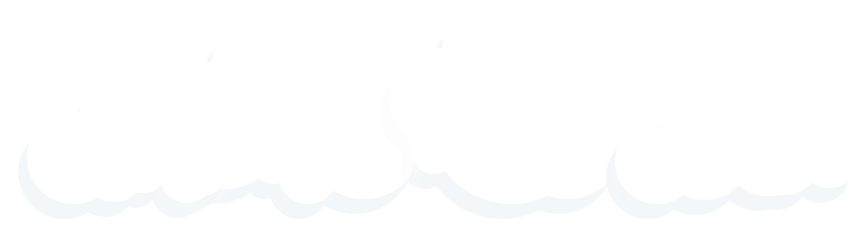
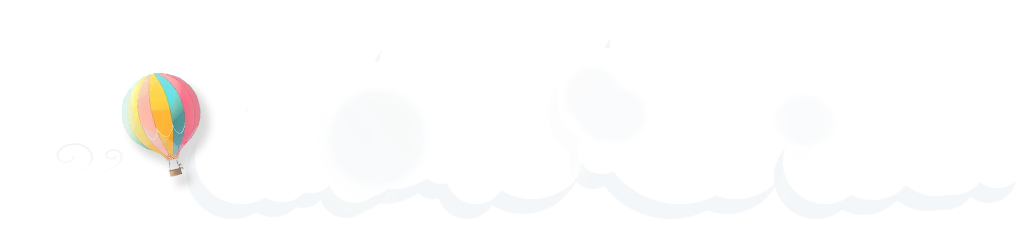
ordstriden uppdatering med karaktärer plus andra stiländringar

Changed region(s): [[0.0934, 0.2954, 0.218, 0.7679]]

diff --git a/src/views/Ordstriden.vue b/src/views/Ordstriden.vue
@@ -11,15 +11,26 @@
         <p class="styled">Lurifax<br>HP: {{ opponentHP }}</p>
       </div>
     </div>
+    <div class="character-container">
+      <div class="image-container hero-container">
+        <img src="/p-f2.png" alt="hjälte1" class="hero-img" />
+        <div class="shadow"></div> <!-- Skugga under hjältebilden -->
+      </div>
+      <div class="image-container monster-container">
+        <img src="/p-k2.png" alt="monster" class="monster-img" />
+        <div class="shadow"></div> <!-- Skugga under monsterbilden -->
+      </div>
+    </div>
+
+
+
+
     <!-- Om spelet inte är över visas innehållet -->
+    <div id="input-container">
     <div v-if="!gameOver">
       <p>Gissa ordet: <strong>{{ scrambledWord }}</strong></p>
       <!-- Inmatningsfält för svar, binder svaret till userAnswer, @keyup.enter anropar funktionen onEnterPress -->
-      <input
-        v-model="userAnswer"
-        @keyup.enter="onEnterPress"
-        placeholder="Skriv ditt svar här..."
-      />
+        <input v-model="userAnswer" @keyup.enter="onEnterPress" placeholder="Skriv ditt svar här..." />
       <!-- Knappar för att ge upp/skicka svar visas om feedback inte syns -->
       <button v-if="!feedback" @click="surrenderRound">Ge upp</button>
       <button v-if="!feedback" @click="submitAnswer">Attack!</button>
@@ -39,6 +50,7 @@
       <p v-else>👑 Du vann!<br>🥳 Den onda trollen Lurifax är besegrad!</p>
       <button @click="restartGame">Spela igen!</button>
     </div>
+  </div>
   </div>
 </template>
 
@@ -215,10 +227,14 @@ newRound();
 </script>
 
 <style scoped>
+h2 {
+  text-align: center;
+  margin-bottom: -10px;
+}
+
 .ordstriden-container {
   max-width: 100%;
   margin: 0 auto;
-  padding: 20px;
   text-align: center;
 }
 
@@ -243,16 +259,67 @@ p {
   display: flex;
   justify-content: space-around;
   margin: 5px;
+  padding-bottom: 30px;
+  gap: 170px;
 }
 
 .player-health-status .player,
 .player-health-status .opponent {
-  padding: 10px;
+  padding: -41px;
   border-radius: 10px;
   width: 40%;
   font-family: 'Bangers', sans-serif;
   font-size: 1.2em;
 }
+
+.player-health-status p {
+  line-height: 1.2;
+}
+
+.character-container {
+  position: relative;
+  width: 100%;
+}
+
+.image-container {
+  position: absolute;
+  /* Se till att varje container kan hantera skuggan */
+}
+
+.hero-img {
+  width: 180px;
+  height: auto;
+  position: relative;
+  margin-left: -30px;
+  margin-top: -50px;
+}
+
+.monster-img {
+  width: 165px;
+  height: auto;
+  position: relative;
+  margin-left: 220px;
+  margin-top: -80px;
+}
+
+/* Skuggan ska följa varje bild utan att flytta något annat */
+.shadow {
+  position: absolute;
+  width: 100px;
+  /* Justera storleken så den matchar bilden */
+  height: 15px;
+  background: rgba(0, 0, 0, 0.3);
+  border-radius: 50%;
+  bottom: -8px;
+  /* Flytta skuggan lite längre ner */
+  left: 102%;
+  transform: translateX(-140%);
+  /* Ser till att skuggan ligger centrerad */
+  filter: blur(10px);
+  z-index: -1;
+  /* Lägger skuggan bakom bilden */
+}
+
 
 input {
   width: 80%;
@@ -264,6 +331,10 @@ input {
   font-size: 1.1rem;
   background-color: #fff;
   border-radius: 5px;
+}
+
+#input-container {
+  padding-top: 160px;
 }
 
 button {

diff --git a/src/views/Quiz.vue b/src/views/Quiz.vue
@@ -8,7 +8,7 @@
       <p class="styled">Poäng: <strong>{{ score }}</strong></p>
       <p>
         Vad är det engelska ordet för:
-        <strong>{{ questions[currentIndex].svenska }}</strong>
+        <strong class="textHighlight">{{ questions[currentIndex].svenska }}</strong>
       </p>
       <!-- Inmatningsfält för svar, binder svaret till userAnswer, @keyup.enter anropar funktionen onEnterPress -->
       <input v-model="userAnswer" type="text" placeholder="Skriv översättningen..." @keyup.enter="onEnterPress" />
@@ -301,6 +301,15 @@ p {
     -1px 1px 0 #111,
     1px 1px 0 #111;
   letter-spacing: 0.15em;
+}
+
+.textHighlight {
+  color: #f77f00;
+  text-shadow:
+    -1px -1px 0 #111,
+    1px -1px 0 #111,
+    -1px 1px 0 #111,
+    1px 1px 0 #111;
 }
 
 input {

diff --git a/src/App.vue b/src/App.vue
@@ -115,12 +115,10 @@ body {
   font-family: "Arial", "Helvetica", "sans-serif";
   font-size: 1.05rem;
   color: #111;
-  background: linear-gradient(
-    to bottom,
+  background: linear-gradient(to bottom,
     lightblue 0%,
     lightblue 66%,
-    #FFF8E1 100%
-  );
+      #FFF8E1 100%);
   background-repeat: no-repeat;
   background-attachment: fixed;
 }
@@ -195,12 +193,17 @@ body {
 
 h2 {
   padding: 5px;
-  color: #111;
+  color: #FFF8E1;
   font-family: 'Baloo';
   font-size: 1.8rem;
   font-style: italic;
   text-align: center;
   letter-spacing: 0.3em;
+  text-shadow:
+    3px 3px 1px #111,
+    -1px 1px 1px #111,
+    1px -1px 1px #111,
+    -1px -1px 1px #111;
 }
 
 p {

diff --git a/src/components/Header.vue b/src/components/Header.vue
@@ -81,12 +81,14 @@ textPath {
 #cloud {
   display: flex;
   justify-content: center;
+  position: relative;
 }
 
 #cloud img {
   position: absolute;
-  width: 867px;
-  top: -0px;
+  width: 1035px;
+  top: -190px;
+  transform: translateX(-80px);
   z-index: -1;
 }
 </style>

diff --git a/src/components/Basketball.vue b/src/components/Basketball.vue
@@ -39,7 +39,6 @@ function handleClick() {
   right: 10px;
   z-index: 1;
   width: 100px;
-  cursor: pointer;
 }
 
 #basketball {
